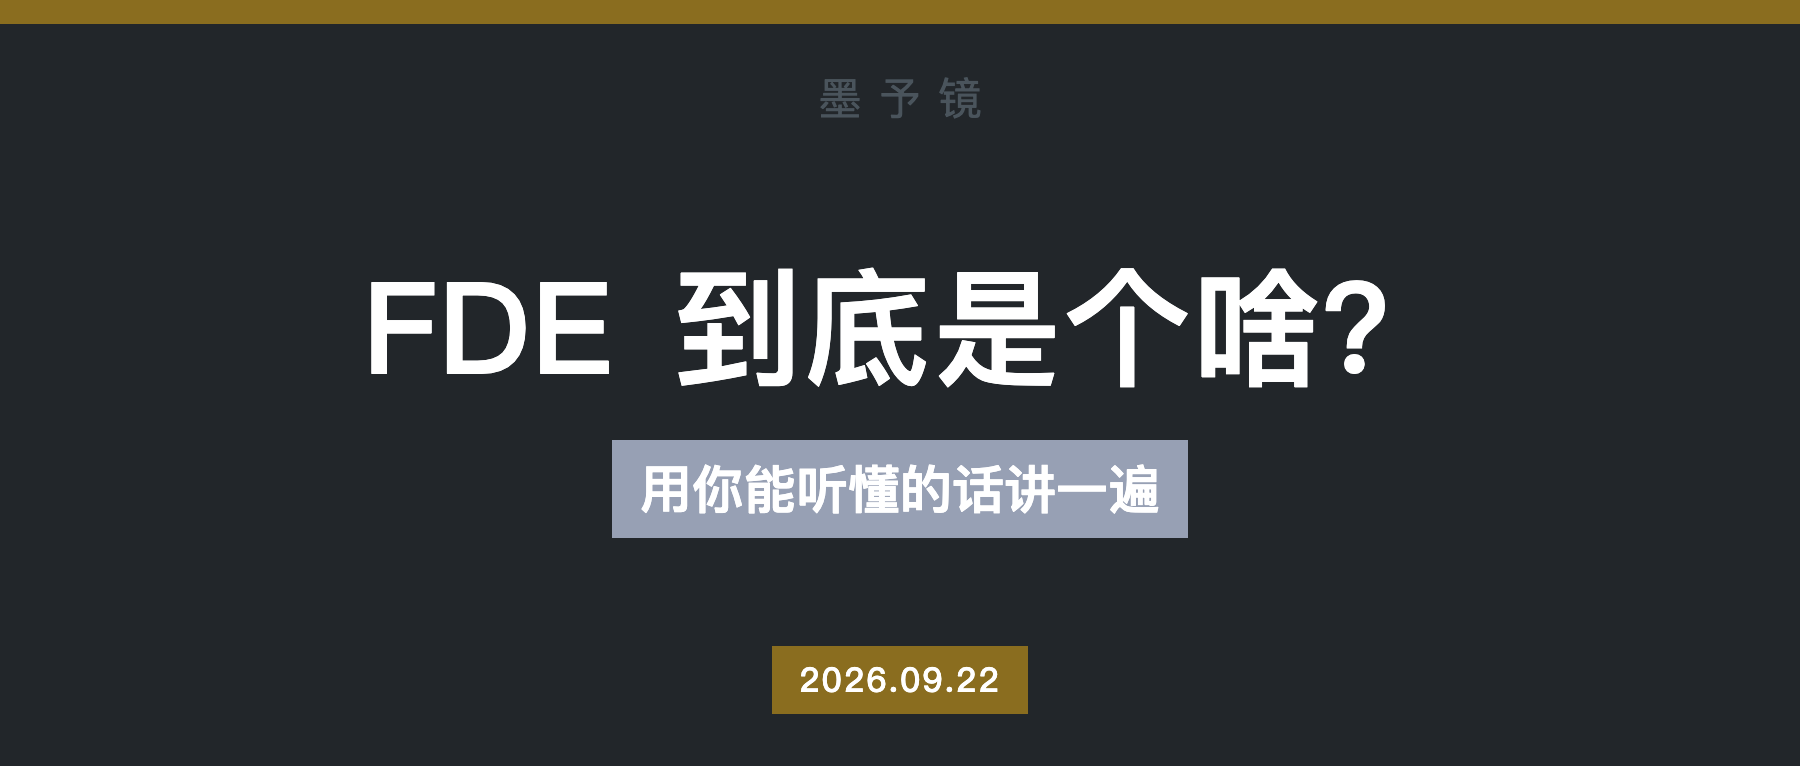
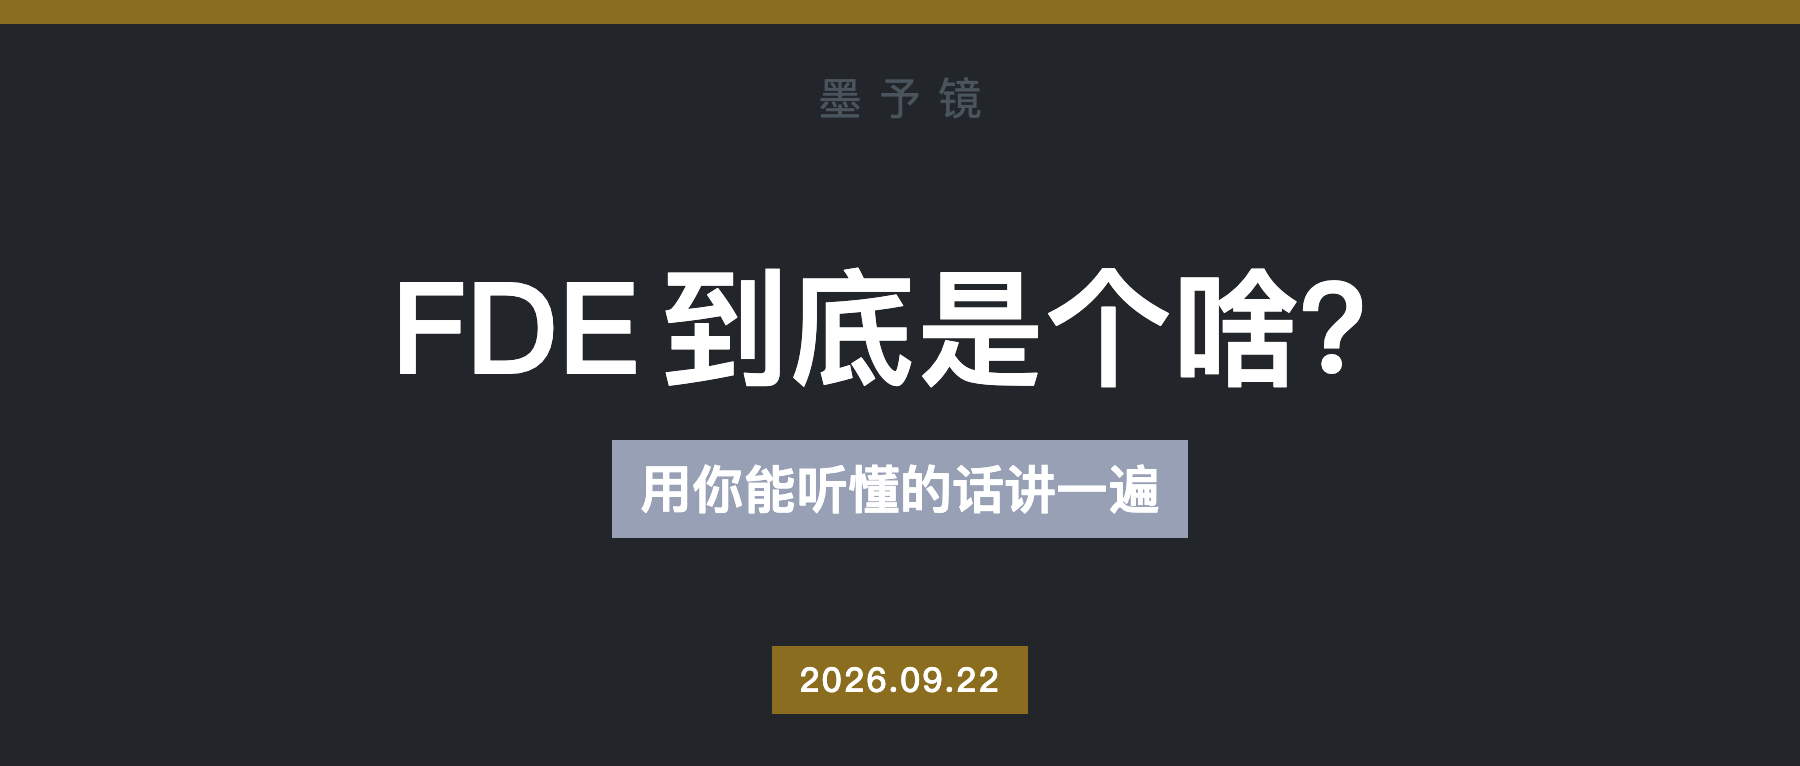
fix(moyujing-cover): 拉丁间隙 7px→10px 且渲染前去手敲空格；清除行尾字距偏移（实测居中偏差 -6.7px→+2px）

Changed region(s): [[0.1867, 0.3303, 0.7778, 0.5104]]

diff --git a/skills/moyujing-cover/templates/cover-v1.html b/skills/moyujing-cover/templates/cover-v1.html
@@ -57,13 +57,12 @@
     line-height: 1.2;
     text-align: center;
     padding: 0 40px;
-    letter-spacing: 1px;
   }
-  /* 中西文混排整齐化：拉丁 run 两侧补对称间隙（替代手敲空格）；
-     全角标点做标点挤压，取消标点后的多余空位 */
-  .title .lat { letter-spacing: 0.5px; margin: 0 7px; }
-  .title .pq { letter-spacing: -0.32em; margin-right: 0.32em;
-  }
+  /* 中西文混排整齐化：拉丁 run 两侧补 4px 对称间隙（叠加字母自身侧轴承，
+     与相邻 CJK 的默认间隙视觉等宽）。任何 margin/letter-spacing 必须
+     左右对称，否则行宽变化会让 text-align:center 产生偏移 */
+  .title .lat { margin: 0 10px; }
+  .title .pq { }
   .subtitle {
     display: inline-block;
     background: var(--subtitle-bg);
